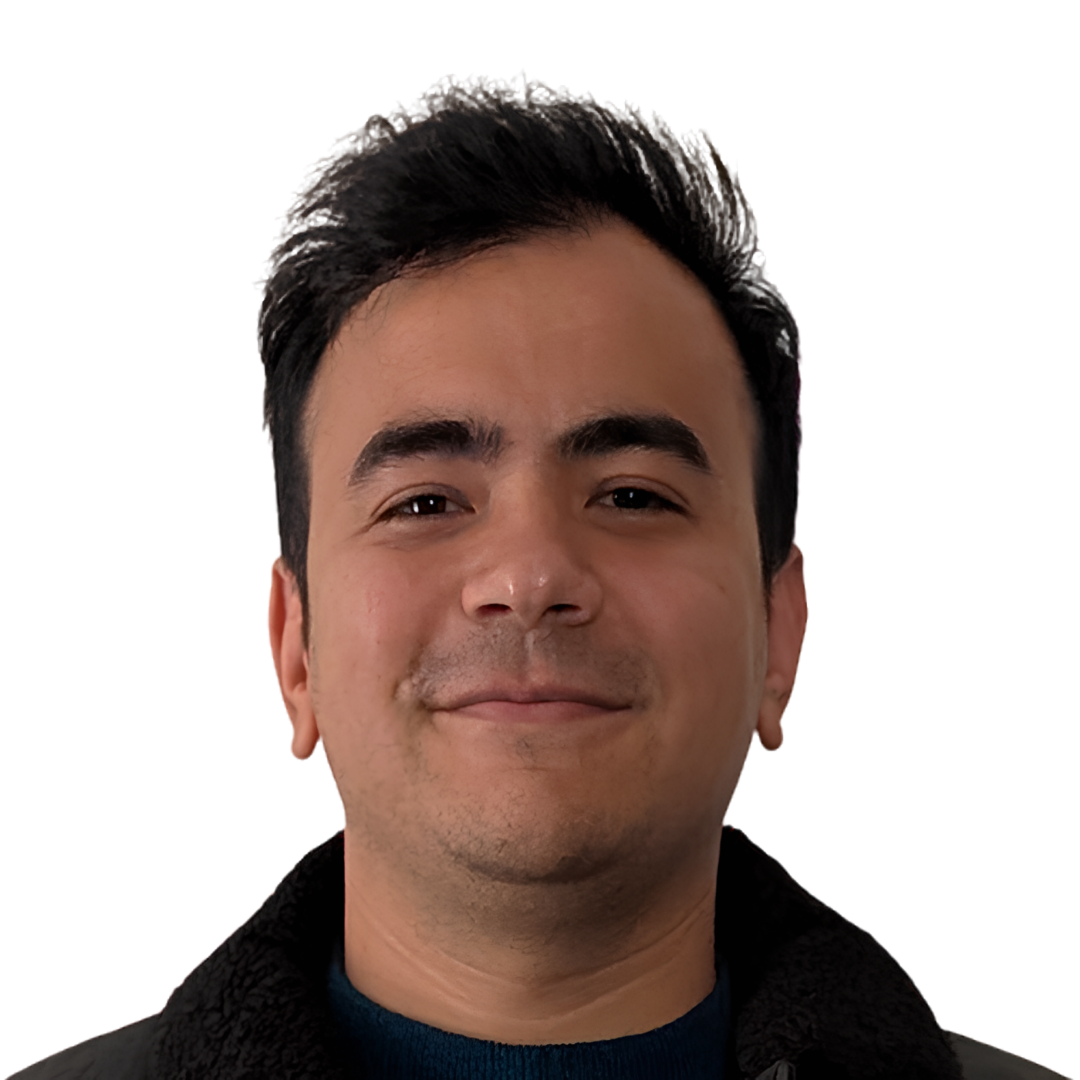
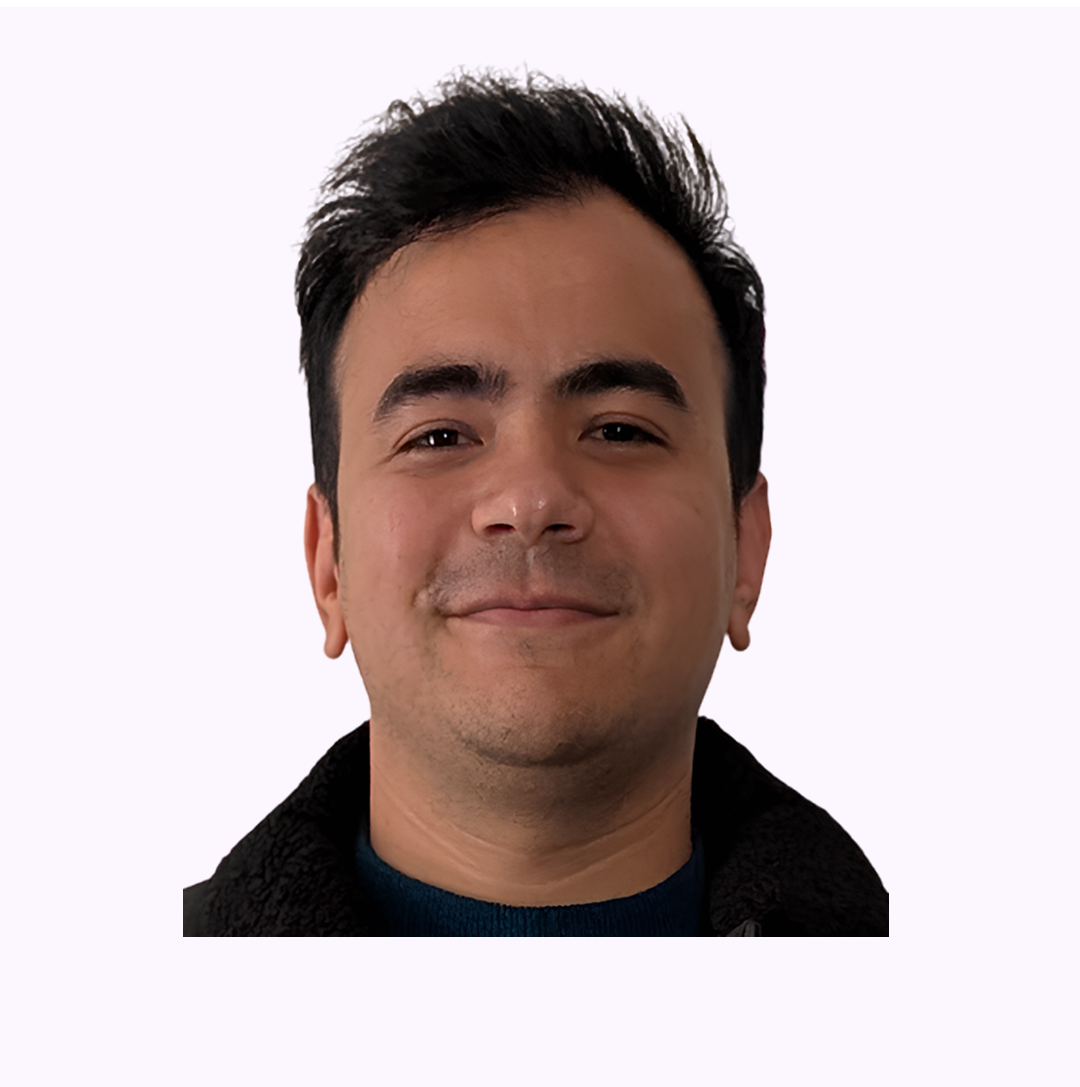
add: added judges information

diff --git a/frontend/src/app/components/Judges/data.ts b/frontend/src/app/components/Judges/data.ts
@@ -10,20 +10,23 @@ const Judges: Judges[] = [
   {
     name:"Bhabuk Singh Kunwar",
     image: BhabukImg,
-    linkedin_url:"https://www.linkedin.com/in/baburamaryal/",
-    position:"Chairman and MD, Delta Law Firm",
+    linkedin_url:"https://www.linkedin.com/in/bhabuk-kunwar-58a82751/",
+    position:"Director of Engineering",
+    company: "Infinite Computer Solutions",
   },
     {
     name:"Rikesh Lal Shrestha",
     image: RikeshImg,
-    linkedin_url:"https://www.linkedin.com/in/binay-khadka-100485b9/",
-    position:"CEO, Khalti",
+    linkedin_url:"https://www.linkedin.com/in/rikesh-lal-shrestha-55b063132/",
+    position:"Senior Engineering Manager",
+    company: "Leapfrog Technology. Inc.",
   },
   {
     name:"Swastika K.C.",
     image: SwastikaImg,
-    linkedin_url:"https://www.linkedin.com/in/isarojdahal/",
-    position:"Founder/CTO, 28Softwares",
+    linkedin_url:"https://www.linkedin.com/in/swastika-kc-84a56413b/",
+    position:"Innovation Program Coordinator",
+    company: "Youth Innovation Lab",
   },
 ];
 

diff --git a/frontend/src/app/components/core/UserCard.tsx b/frontend/src/app/components/core/UserCard.tsx
@@ -5,7 +5,7 @@ import { cabinetRegular } from "@/app/utils/fonts";
 import Image from "next/image";
 import Link from "next/link";
 
-const UserCard = ({ name, position, image, linkedin_url }: UserEntity) => {
+const UserCard = ({ name, position, company,image, linkedin_url }: UserEntity) => {
   return (
     <div className="mb-5 flex justify-center items-center" key="cardContainer">
       <div
@@ -31,7 +31,8 @@ const UserCard = ({ name, position, image, linkedin_url }: UserEntity) => {
             >
               {name}
             </p>
-            <p className={`text-white font-[150] text-sm`}>{position}</p>
+            <p className={`text-white font-[150] text-xs`}>{position}</p>
+            <p className={`text-white font-[150] text-xs`}>{company}</p>
           </div>
           <div key="icon">
             <Link href={linkedin_url}

diff --git a/frontend/src/app/components/Judges/Judges.tsx b/frontend/src/app/components/Judges/Judges.tsx
@@ -13,6 +13,7 @@ const JudgesList = async () => {
           name={judge.name}
           image={judge.image}
           position={judge.position}
+          company={judge.company}
           linkedin_url={judge.linkedin_url}
         />
       ))}

diff --git a/frontend/src/app/types/userentity.ts b/frontend/src/app/types/userentity.ts
@@ -2,6 +2,7 @@ type UserEntity = {
   id?: number;
   name: string;
   position?: string;
+  company?: string;
   image: string;
   linkedin_url: string;
 };
